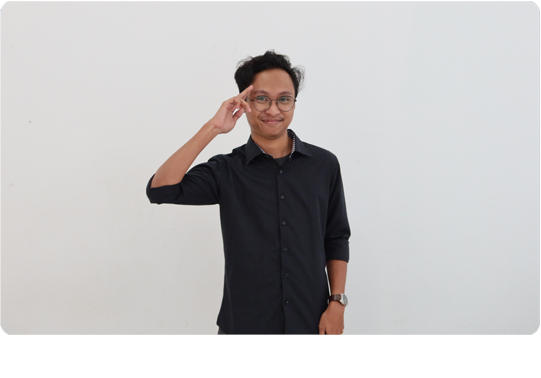
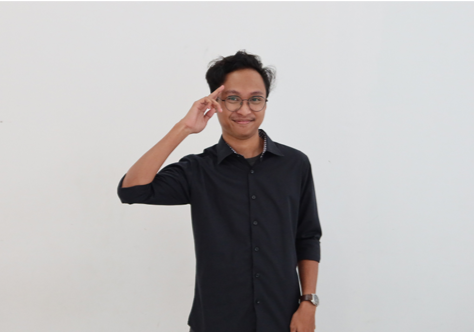
fix portfolio: remove GPA, fix ISM/PACS cards, cache-bust updated images, drop downscaling-old

Changed region(s): [[0.0, 0.1205, 1.0, 1.0], [0.9747, 0.0, 1.0, 0.0301], [0.0, 0.0, 0.0295, 0.0301]]

diff --git a/index.html b/index.html
@@ -140,12 +140,12 @@
     <div class="about-container">
       <div class="about-img">
         <div class="about-img-frame">
-          <img src="assets/casual.png" alt="Rifqi Aditya — casual portrait">
+          <img src="assets/casual.png?v=2" alt="Rifqi Aditya — casual portrait">
         </div>
       </div>
 
       <div class="about-text">
-        <p>I'm a <strong>Physics graduate from Universitas Indonesia</strong> (GPA 3.55/4.00) and a Bangkit Academy Distinction Graduate, certified in machine learning by Google, GoTo, and Traveloka. My work sits at the intersection of computational science and visual storytelling.</p>
+        <p>I'm a <strong>Physics graduate from Universitas Indonesia</strong> and a Bangkit Academy Distinction Graduate, certified in machine learning by Google, GoTo, and Traveloka. My work sits at the intersection of computational science and visual storytelling.</p>
         <p>Professionally, I've shipped production systems at PT Super Bank Indonesia (automation & AI), engineered ETL pipelines for BMKG's 1,013-station seismological network, and deployed medical imaging AI on GCP at PT Kalbe Farma. I work across Python, TensorFlow, PyTorch, the Hugging Face stack, and GCP.</p>
         <p>Away from code, I work as a Director of Photography — lighting events and crafting films in the Adobe Creative Cloud environment. I believe the precision required in physics and the intuition required in filmmaking aren't so different.</p>
 
@@ -183,7 +183,7 @@
         <div class="timeline-dot"></div>
         <div class="timeline-content">
           <span class="timeline-date mono-tag">Jul 2021 — Jul 2025</span>
-          <h3>B.Sc. Physics — Universitas Indonesia <span class="timeline-gpa">GPA 3.55/4.00</span></h3>
+          <h3>B.Sc. Physics — Universitas Indonesia</h3>
           <p>Computational physics, signal processing, and sensor systems. Thesis on physics-informed deep learning for atmospheric spatial downscaling.</p>
           <p class="timeline-award"><i class='bx bxs-award'></i> International Student Mobility FMIPA UI 2024 — Chapter South Korea Awardee</p>
         </div>
@@ -525,7 +525,7 @@
       <div class="portfolio-card" data-animate>
         <a href="https://github.com/Rifqidits/RainScale-EDSR" target="_blank" rel="noopener" class="portfolio-img-link">
           <div class="portfolio-img-wrap">
-            <img src="assets/downscaling.png" alt="RainScale-EDSR — CNN rainfall downscaling project">
+            <img src="assets/downscaling.png?v=2" alt="RainScale-EDSR — CNN rainfall downscaling project">
             <div class="portfolio-overlay"><span class="overlay-label">View Project <i class='bx bx-link-external'></i></span></div>
           </div>
         </a>
@@ -539,7 +539,7 @@
       <div class="portfolio-card" data-animate>
         <a href="https://www.instagram.com/p/DB3adP_SaUk/" target="_blank" rel="noopener" class="portfolio-img-link">
           <div class="portfolio-img-wrap">
-            <img src="assets/ism.jpg" alt="Cloud-Based PACS — AI integration for chest X-ray imaging">
+            <img src="assets/ml.jpg" alt="Cloud-Based PACS — AI integration for chest X-ray imaging">
             <div class="portfolio-overlay"><span class="overlay-label">View Project <i class='bx bx-link-external'></i></span></div>
           </div>
         </a>
@@ -551,16 +551,14 @@
       </div>
 
       <div class="portfolio-card" data-animate>
-        <a href="https://github.com/Rifqidits/C24-DA/" target="_blank" rel="noopener" class="portfolio-img-link">
-          <div class="portfolio-img-wrap">
-            <img src="assets/ml.jpg" alt="Bangkit ML Capstone — machine learning project">
-            <div class="portfolio-overlay"><span class="overlay-label">View Project <i class='bx bx-link-external'></i></span></div>
-          </div>
-        </a>
+        <div class="portfolio-img-wrap no-link">
+          <img src="assets/ism.jpg" alt="International Student Mobility — South Korea 2024">
+          <div class="portfolio-overlay no-link-overlay"><span class="overlay-label">Academic Exchange</span></div>
+        </div>
         <div class="portfolio-card-info">
-          <h3>Bangkit ML Capstone</h3>
-          <p>TensorFlow · Deep Learning</p>
-          <div class="portfolio-tags"><span>TensorFlow</span><span>DL</span></div>
+          <h3>ISM — South Korea 2024</h3>
+          <p>FMIPA UI International Student Mobility</p>
+          <div class="portfolio-tags"><span>Exchange</span><span>FMIPA UI</span></div>
         </div>
       </div>
 